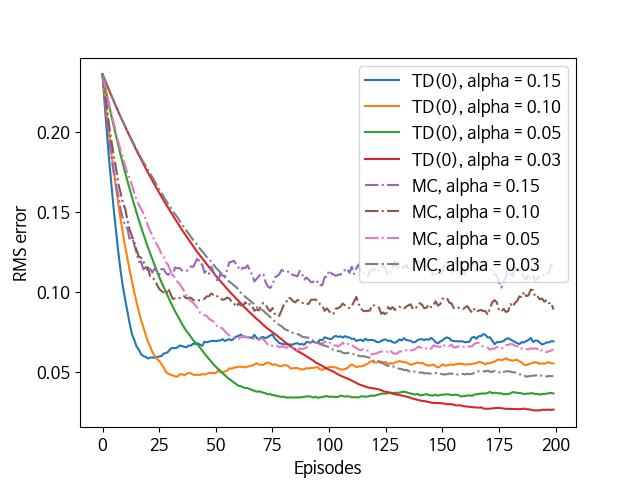
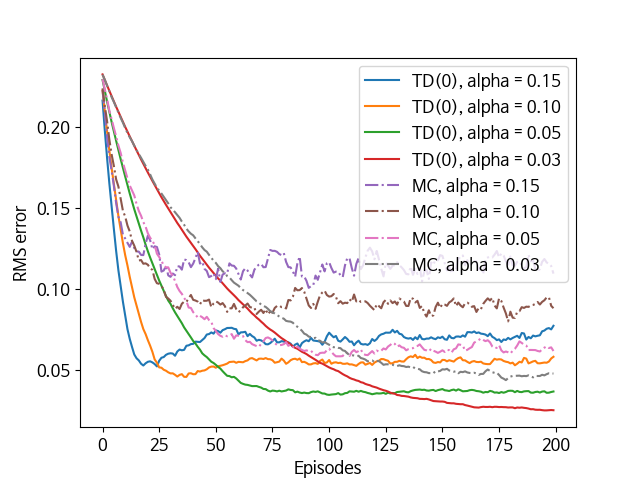
....

diff --git a/basic2/practice_2/grid_world_td_batch_comparison.py b/basic2/practice_2/grid_world_td_batch_comparison.py
@@ -1,0 +1,172 @@
+import random
+
+import numpy as np
+from basic.practice_1.gridworld import GridWorld
+from utils.util import draw_grid_world_state_values_image
+import matplotlib.pyplot as plt
+
+GRID_HEIGHT = 4
+GRID_WIDTH = 4
+NUM_ACTIONS = 4
+TERMINAL_STATES = [(0, 0), (GRID_HEIGHT-1, GRID_WIDTH-1)]
+
+
+VALUES = np.zeros(shape=(GRID_HEIGHT, GRID_WIDTH))
+for i in range(GRID_HEIGHT):
+    for j in range(GRID_WIDTH):
+        VALUES[i, j] = 0.0
+
+# 올바른 상태 가치 값 저장
+TRUE_VALUES = np.zeros(shape=(GRID_HEIGHT, GRID_WIDTH))
+TRUE_VALUES[0, 0] = 0.0;   TRUE_VALUES[0, 1] = -14.0; TRUE_VALUES[0, 2] = -20.0; TRUE_VALUES[0, 3] = -22.0
+TRUE_VALUES[1, 0] = -14.0; TRUE_VALUES[1, 1] = -18.0; TRUE_VALUES[1, 2] = -20.0; TRUE_VALUES[1, 3] = -20.0
+TRUE_VALUES[2, 0] = -20.0; TRUE_VALUES[2, 1] = -20.0; TRUE_VALUES[2, 2] = -18.0; TRUE_VALUES[2, 3] = -14.0
+TRUE_VALUES[3, 0] = -22.0; TRUE_VALUES[3, 1] = -20.0; TRUE_VALUES[3, 2] = -14.0; TRUE_VALUES[3, 3] = 0.0
+
+
+def generate_initial_state_values():
+    state_values = np.zeros(shape=(GRID_HEIGHT, GRID_WIDTH))
+    for i in range(GRID_HEIGHT):
+        for j in range(GRID_WIDTH):
+            state_values[i, j] = 0.0
+    return state_values
+
+
+# 모든 상태에서 수행 가능한 행동에 맞춰 임의의 정책을 생성함
+# 초기에 각 행동의 선택 확률은 모두 같음
+def generate_initial_random_policy(env):
+    policy = dict()
+
+    for i in range(GRID_HEIGHT):
+        for j in range(GRID_WIDTH):
+            actions = []
+            prob = []
+            for action in range(NUM_ACTIONS):
+                actions.append(action)
+                prob.append(0.25)
+            policy[(i, j)] = (actions, prob)
+
+    return policy
+
+
+def get_exploring_start_state():
+    while True:
+        i = random.randrange(GRID_HEIGHT)
+        j = random.randrange(GRID_WIDTH)
+        if (i, j) not in TERMINAL_STATES:
+            break
+    return (i, j)
+
+
+# @values: 현재의 상태 가치
+# @alpha: 스텝 사이즈
+# @batch: 배치 업데이트 유무
+def temporal_difference(env, policy, state_values, alpha, gamma=1.0):
+    env.reset()
+
+    initial_state = get_exploring_start_state()
+    env.moveto(initial_state)
+
+    done = False
+    state = env.current_state
+    while not done:
+        actions, prob = policy[state]
+        action = np.random.choice(actions, size=1, p=prob)[0]
+        next_state, reward, done, _ = env.step(action)
+
+
+        if done:
+            state_values[state] += alpha * (reward - state_values[state])
+        else:
+            state_values[state] += alpha * (reward + gamma * state_values[next_state] - state_values[state])
+
+        state = next_state
+
+
+# @values: 현재의 상태 가치
+# @alpha: 스텝 사이즈
+# @batch: 배치 업데이트 유무
+def temporal_difference_batch(env, policy, state_values, alpha=0.1, gamma=1.0):
+    env.reset()
+
+    initial_state = get_exploring_start_state()
+    env.moveto(initial_state)
+
+    batch_list = []
+
+    done = False
+    state = env.current_state
+    while not done:
+        actions, prob = policy[state]
+        action = np.random.choice(actions, size=1, p=prob)[0]
+        next_state, reward, done, _ = env.step(action)
+
+        batch_list.append([state, action, next_state, reward, done])
+
+        state = next_state
+
+    for i in range(10):
+        for sample in batch_list:
+            state = sample[0]
+            next_state = sample[2]
+            reward = sample[3]
+            done = sample[4]
+
+            if done:
+                state_values[state] += alpha * (reward - state_values[state])
+            else:
+                state_values[state] += alpha * (reward + gamma * state_values[next_state] - state_values[state])
+
+
+# @method: 'TD(0)' 또는 'MC'
+def batch_updating(env, method, episodes, alpha):
+    policy = generate_initial_random_policy(env)
+
+    # episodes 수행 마다 독립적인 에러값 모음
+    total_errors = np.zeros(episodes)
+
+    total_runs = 10
+    for run in range(total_runs):
+        errors = []
+        state_values = np.copy(VALUES)
+
+        for _ in range(episodes):
+            if method == 'TD(0)':
+                temporal_difference(env, policy, state_values, alpha=alpha)
+            else:
+                temporal_difference_batch(env, policy, state_values, alpha=alpha)
+            errors.append(np.sqrt(np.sum(np.power(TRUE_VALUES - state_values, 2)) / 25))
+        total_errors += np.asarray(errors)
+        print("method: {0}, run: {1}".format(method, run))
+    total_errors /= total_runs
+
+    return total_errors
+
+
+def mc_td_batch_comparison(env, alpha):
+    episodes = 5000
+
+    td_errors = batch_updating(env, 'TD(0)', episodes, alpha=alpha)
+    td_batch_errors = batch_updating(env, 'TD(0)_batch', episodes, alpha=alpha)
+
+    plt.plot(td_errors, label='TD(0), alpha={0}'.format(alpha))
+    plt.plot(td_batch_errors, label='TD(0)_batch, alpha={0}'.format(alpha))
+    plt.xlabel('Episodes')
+    plt.ylabel('RMS error')
+    plt.legend()
+
+    plt.savefig('images/grid_world_td_batch_alpha_{0}.png'.format(alpha))
+    plt.close()
+
+
+if __name__ == '__main__':
+    env = GridWorld(
+        height=GRID_HEIGHT,
+        width=GRID_WIDTH,
+        start_state=(2, 2),
+        terminal_states=TERMINAL_STATES,
+        transition_reward=-1.0,
+        terminal_reward=-1.0,
+        outward_reward=-1.0
+    )
+    mc_td_batch_comparison(env, alpha=0.05)

diff --git a/basic2/practice_2/grid_world_td_learning.py b/basic2/practice_2/grid_world_td_learning.py
@@ -1,0 +1,123 @@
+import random
+
+import numpy as np
+from basic.practice_1.gridworld import GridWorld
+from utils.util import draw_grid_world_state_values_image
+
+GRID_HEIGHT = 4
+GRID_WIDTH = 4
+NUM_ACTIONS = 4
+TERMINAL_STATES = [(0, 0), (GRID_HEIGHT-1, GRID_WIDTH-1)]
+
+
+def generate_initial_state_values():
+    state_values = np.zeros(shape=(GRID_HEIGHT, GRID_WIDTH))
+    for i in range(GRID_HEIGHT):
+        for j in range(GRID_WIDTH):
+            state_values[i, j] = 0.0
+    return state_values
+
+
+# 모든 상태에서 수행 가능한 행동에 맞춰 임의의 정책을 생성함
+# 초기에 각 행동의 선택 확률은 모두 같음
+def generate_initial_random_policy(env):
+    policy = dict()
+
+    for i in range(GRID_HEIGHT):
+        for j in range(GRID_WIDTH):
+            actions = []
+            prob = []
+            for action in range(NUM_ACTIONS):
+                actions.append(action)
+                prob.append(0.25)
+            policy[(i, j)] = (actions, prob)
+
+    return policy
+
+
+def get_exploring_start_state():
+    while True:
+        i = random.randrange(GRID_HEIGHT)
+        j = random.randrange(GRID_WIDTH)
+        if (i, j) not in TERMINAL_STATES:
+            break
+    return (i, j)
+
+
+# @values: 현재의 상태 가치
+# @alpha: 스텝 사이즈
+# @batch: 배치 업데이트 유무
+def temporal_difference(env, policy, state_values, alpha=0.1, batch=False):
+    env.reset()
+
+    initial_state = get_exploring_start_state()
+    env.moveto(initial_state)
+
+    trajectory = [env.current_state]
+    rewards = [0]
+    done = False
+    state = env.current_state
+    while not done:
+        actions, prob = policy[state]
+        action = np.random.choice(actions, size=1, p=prob)[0]
+        next_state, reward, done, _ = env.step(action)
+
+        # TD 갱신 수행
+        if not batch:
+            if done:
+                state_values[state] += alpha * (reward - state_values[state])
+            else:
+                state_values[state] += alpha * (reward + state_values[next_state] - state_values[state])
+
+        state = next_state
+
+        trajectory.append(state)
+        rewards.append(reward)
+
+    if batch:
+        return trajectory, rewards
+
+
+# 실전 연습의 왼쪽 그래프
+def compute_state_values(env, alpha):
+    policy = generate_initial_random_policy(env)
+
+    state_values = generate_initial_state_values()
+    num_episodes = 300
+    for _ in range(num_episodes):
+        temporal_difference(env, policy, state_values, alpha)
+
+    draw_grid_world_state_values_image(
+        state_values, 'images/grid_world_td_prediction_300.png', GRID_HEIGHT, GRID_WIDTH
+    )
+
+    state_values = generate_initial_state_values()
+    num_episodes = 3000
+    for _ in range(num_episodes):
+        temporal_difference(env, policy, state_values, alpha)
+
+    draw_grid_world_state_values_image(
+        state_values, 'images/grid_world_td_prediction_3000.png', GRID_HEIGHT, GRID_WIDTH
+    )
+
+    state_values = generate_initial_state_values()
+    num_episodes = 10000
+    for _ in range(num_episodes):
+        temporal_difference(env, policy, state_values, alpha)
+
+    draw_grid_world_state_values_image(
+        state_values, 'images/grid_world_td_prediction_10000.png', GRID_HEIGHT, GRID_WIDTH
+    )
+
+
+if __name__ == '__main__':
+    env = GridWorld(
+        height=GRID_HEIGHT,
+        width=GRID_WIDTH,
+        start_state=(2, 2),
+        terminal_states=TERMINAL_STATES,
+        transition_reward=-1.0,
+        terminal_reward=-1.0,
+        outward_reward=-1.0
+    )
+    compute_state_values(env, alpha=0.05)

diff --git a/basic2/practice_2/random_walk_mc_td_comparison.py b/basic2/practice_2/random_walk_mc_td_comparison.py
@@ -106,7 +106,7 @@ def mc_td_comparison(env):
     td_alphas = [0.15, 0.1, 0.05, 0.025]
     mc_alphas = [0.15, 0.1, 0.05, 0.025]
     # mc_alphas = [0.01, 0.02, 0.03, 0.04]
-    total_runs = 200
+    total_runs = 100
     episodes = 200
     plt.figure()
 
@@ -123,12 +123,13 @@ def mc_td_comparison(env):
         for _ in range(total_runs):
             errors = []
             state_values = np.copy(VALUES)
+
             for i in range(episodes):
-                errors.append(np.sqrt(np.sum(np.power(TRUE_VALUES - state_values, 2)) / NUM_INTERNAL_STATES))
                 if method == 'TD(0)':
                     temporal_difference(env, policy, state_values, alpha=alpha)
                 else:
                     first_visit_mc_prediction(env, policy, state_values, alpha=alpha)
+                errors.append(np.sqrt(np.sum(np.power(TRUE_VALUES - state_values, 2)) / NUM_INTERNAL_STATES))
             total_errors += np.asarray(errors)
         total_errors /= total_runs
         plt.plot(total_errors, linestyle=linestyle, label=method + ', alpha = {0:.2f}'.format(alpha))
